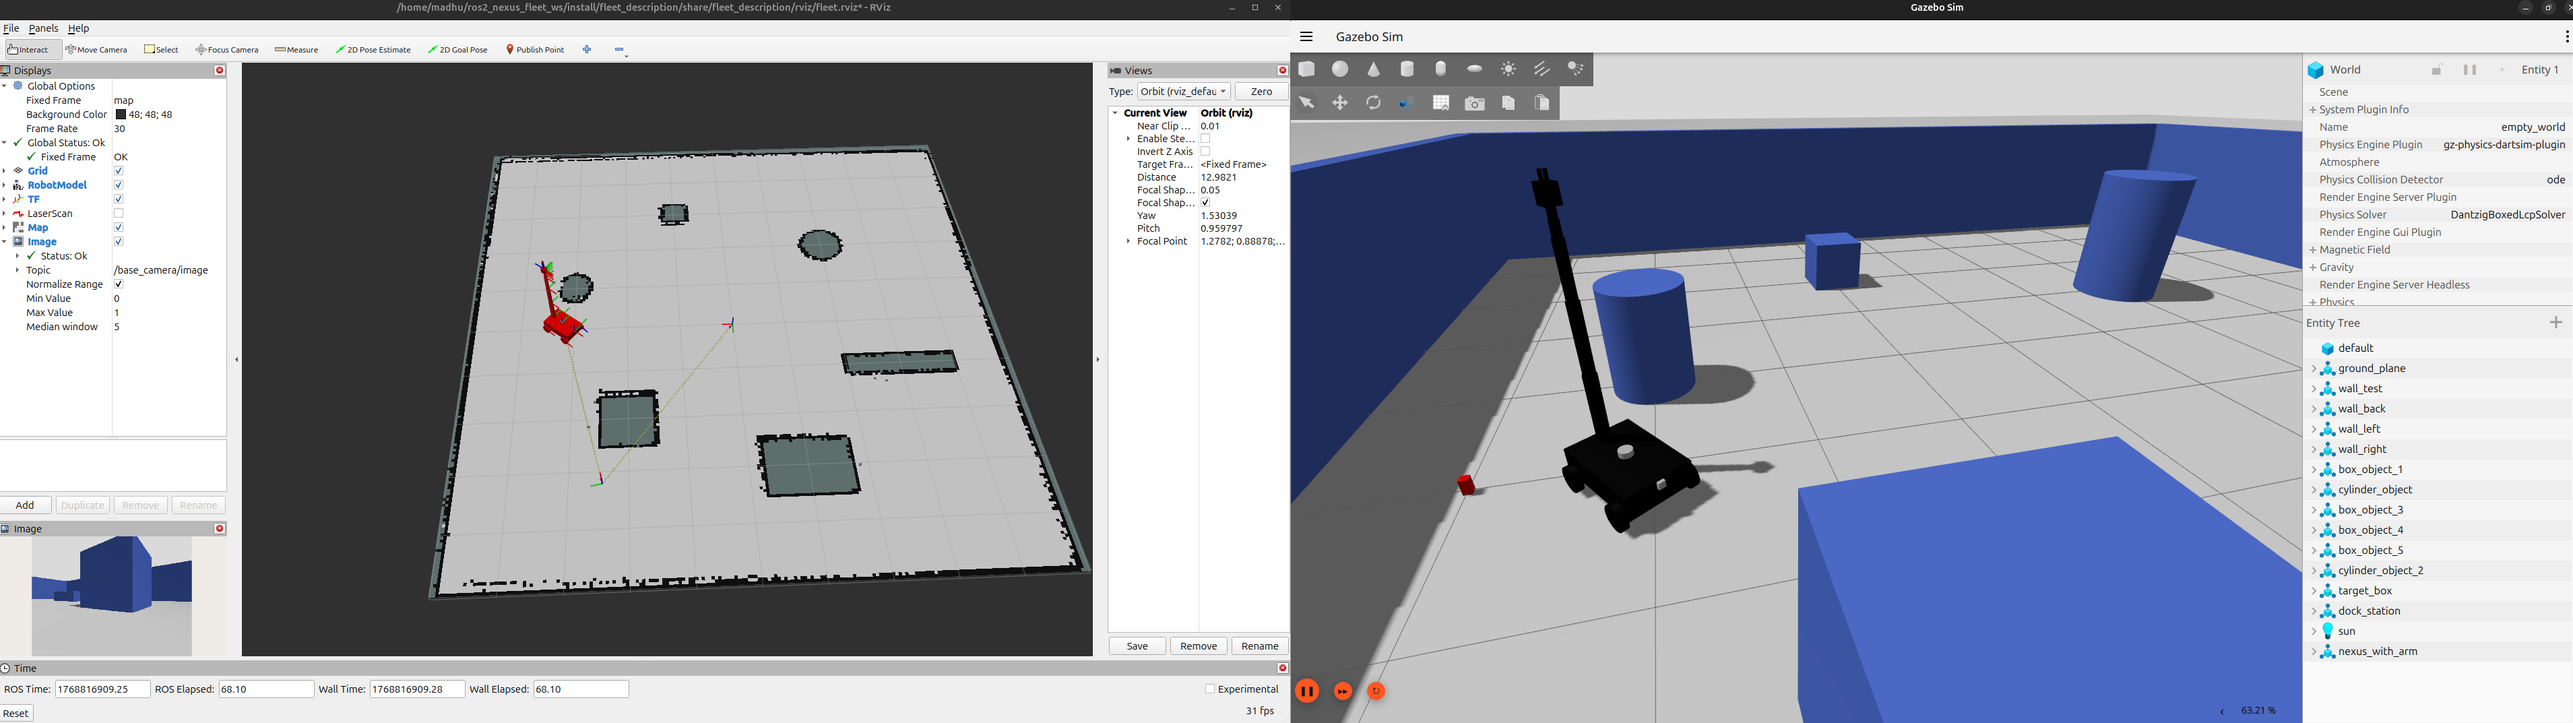
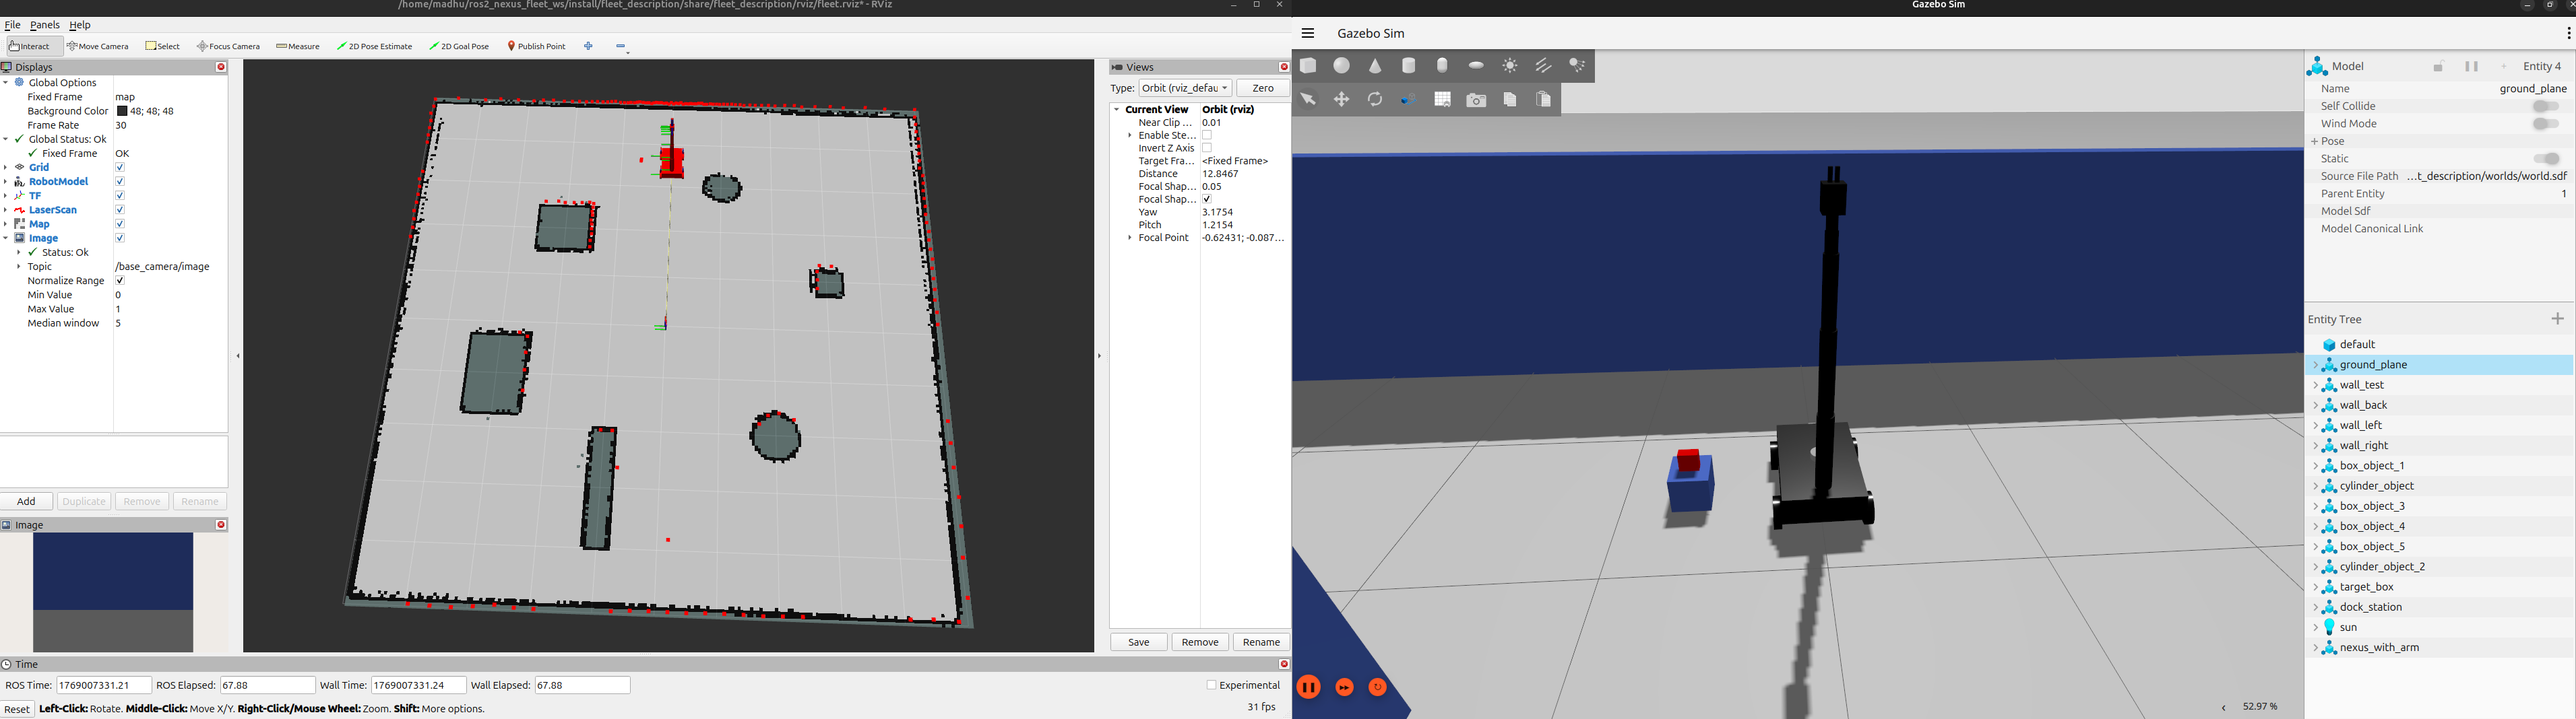
Render the opencv in dock view

diff --git a/src/nexus_arm_auto/setup.py b/src/nexus_arm_auto/setup.py
@@ -1,6 +1,6 @@
 from setuptools import find_packages, setup
 
-package_name = 'nexu_arm_auto'
+package_name = 'nexus_arm_auto'
 
 setup(
     name=package_name,
@@ -24,8 +24,8 @@ setup(
     },
     entry_points={
         'console_scripts': [
-            'camera_view = nexu_arm_auto.camera_view:main',
-            'search_align_shoulder = nexu_arm_auto.search_align_shoulder:main',
+            'camera_view = nexus_arm_auto.camera_view:main',
+            'search_align_shoulder = nexus_arm_auto.search_align_shoulder:main',
         ],
     },
 )

diff --git a/src/nexus_car_auto_nav/nexus_car_auto_nav/auto_nav.py b/src/nexus_car_auto_nav/nexus_car_auto_nav/auto_nav.py
@@ -58,7 +58,7 @@ class AutoNav(Node):
         goal.pose.header.frame_id = "map"
         goal.pose.header.stamp = self.get_clock().now().to_msg()
 
-        goal.pose.pose.position.x = 3.4
+        goal.pose.pose.position.x = 3.7
         goal.pose.pose.position.y = 0.0
 
         q = quaternion_from_euler(0, 0, 0)

diff --git a/README.md b/README.md
@@ -200,7 +200,7 @@ chmod +x auto_nav.py
 - Terminal 1: ros2 launch fleet_description gazebo_rviz.launch.py
 - Terminal 2: ros2 launch fleet_description localization.launch.py
 - Terminal 3: ros2 launch fleet_description navigation.launch.py
-- Terminal 3: ros2 run nexus_car_auto_nav auto_nav
+- Terminal 4: ros2 run nexus_car_auto_nav auto_nav
 - ![alt text](./src/images/image-13.png)
 
 # GOAL 7: Move Scripts folder to new package
@@ -235,39 +235,20 @@ chmod +x drive_car.py
 - Terminal 1: 
 ```
 cd ~/ros2_nexus_fleet_ws/src
-ros2 pkg create nexu_arm_auto --build-type ament_python --dependencies rclpy sensor_msgs cv_bridge geometry_msgs trajectory_msgs
+ros2 pkg create nexus_arm_auto --build-type ament_python --dependencies rclpy sensor_msgs cv_bridge geometry_msgs trajectory_msgs
 
 cd ~/ros2_nexus_fleet_ws
 colcon build
 source install/setup.bash
 ```
 ```
-cd ~/ros2_nexus_fleet_ws/src/nexu_arm_auto/nexu_arm_auto
+cd ~/ros2_nexus_fleet_ws/src/nexus_arm_auto/nexus_arm_auto
 touch camera_view.py
 chmod +x camera_view.py
 ```
-- Add to console_scripts ```'camera_view = nexu_arm_auto.camera_view:main',```
-- [BUILD](#build)
+- Add to console_scripts ```'camera_view = nexus_arm_auto.camera_view:main',```
+- ![alt text](./src/images/image-14.png)
+- Terminal 4: ros2 run nexus_car_auto_nav auto_nav
 - ![alt text](./src/images/image-15.png)
-- Terminal 4: ros2 run nexu_arm_auto camera_view
-- ![dock view](./src/images/image-16.png)
-
-### STEP 2: Search box and Align Y-AXIS with PID
-```
-cd ~/ros2_nexus_fleet_ws/src/nexu_arm_auto/nexu_arm_auto
-touch search_align_shoulder.py
-chmod +x search_align_shoulder.py
-```
-- Add to console_scripts ```'search_align_shoulder = nexu_arm_auto.search_align_shoulder:main',```
-- [BUILD](#build)
+- Terminal 5: ros2 run nexus_arm_auto camera_view
 - ![alt text](./src/images/image-16.png)
-- Terminal 5: ros2 run nexu_arm_auto search_align_shoulder
-- ![dock view](./src/images/image-16.png)
-- ![alt text](./src/images/image-17.png)
-- ![alt text](./src/images/image-19.png)
-- ![alt text](./src/images/image-18.png)
-
-### STEP 3: Align wrist_roll
-- Changed pick up object place
-- Added wrist roll condition without PID
-- ![alt text](./src/images/image-20.png)
